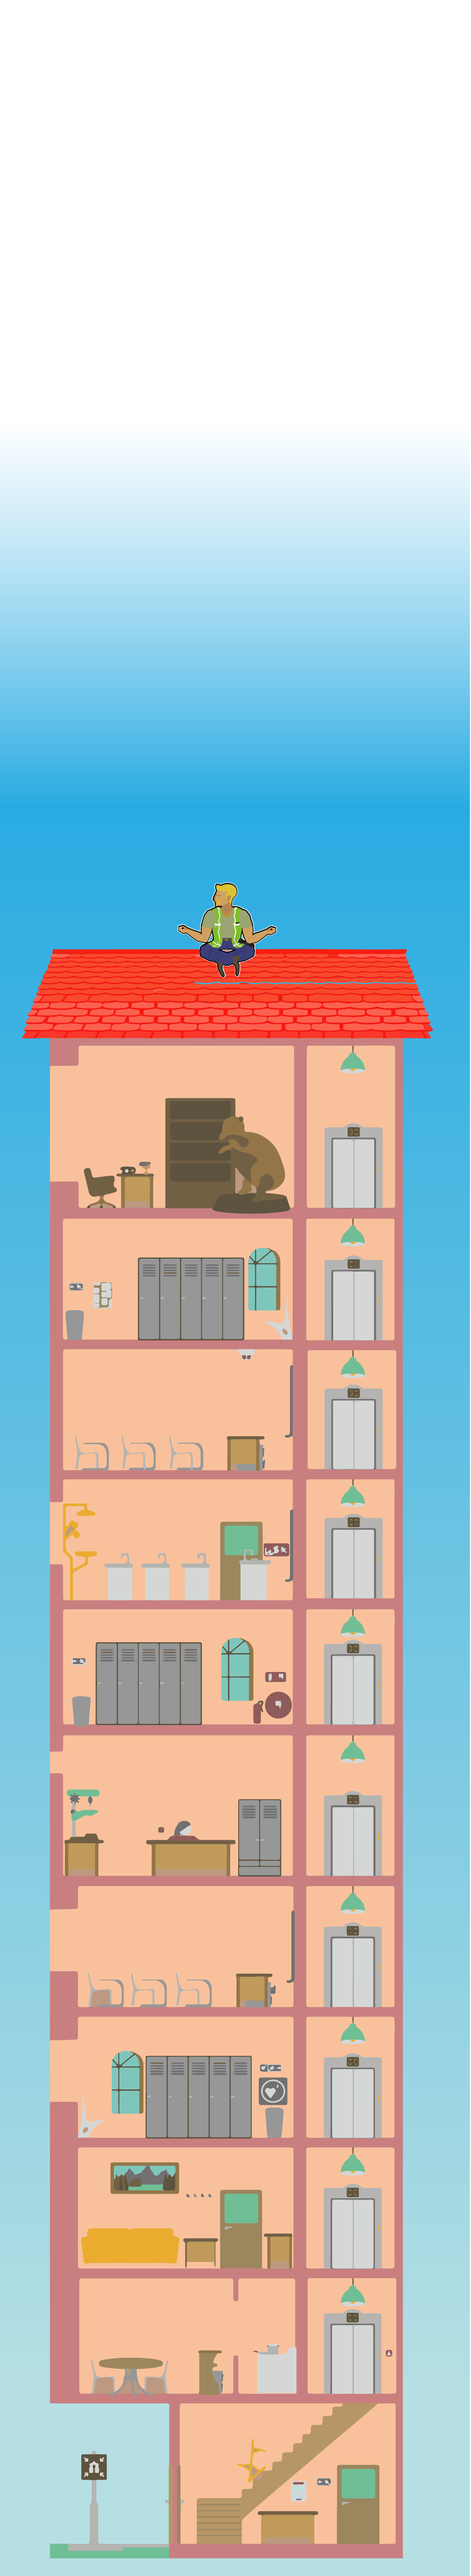
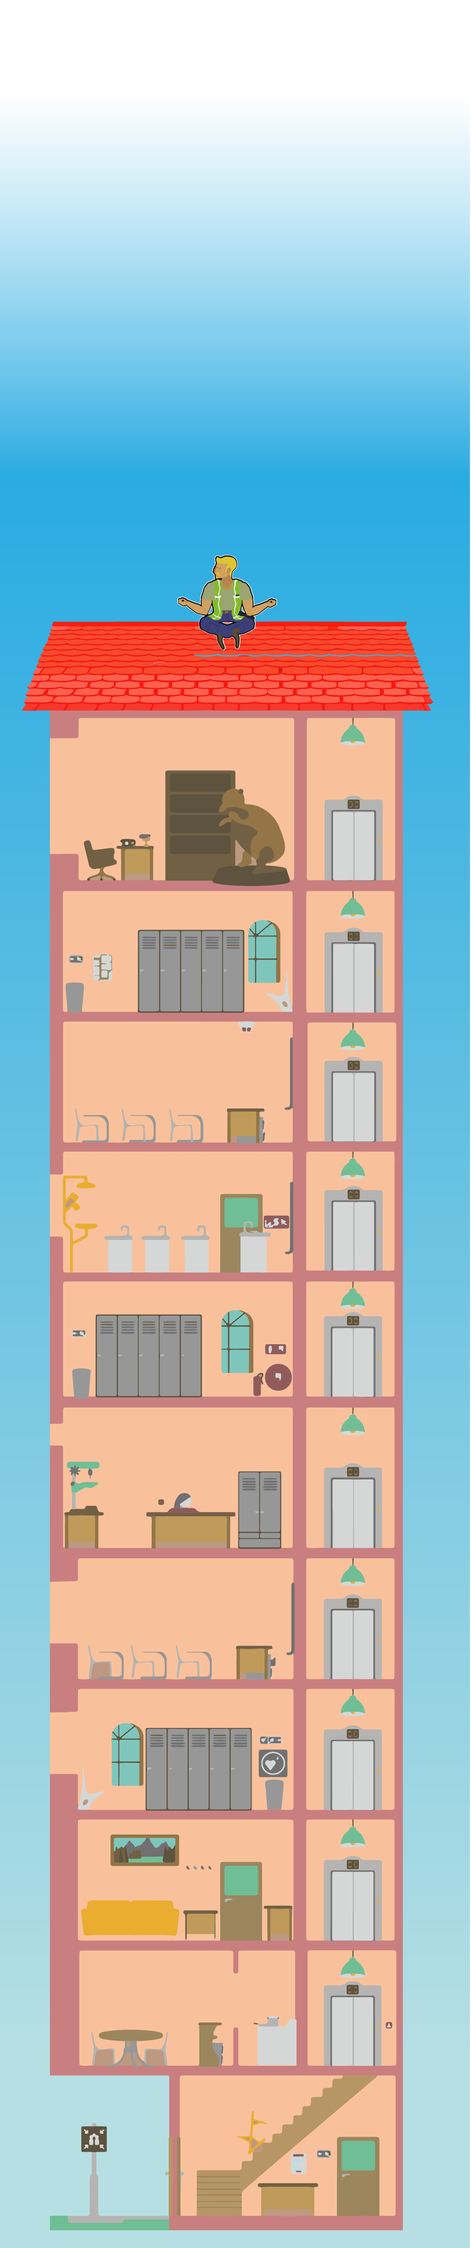
Achtergrond geplaats en buttons met scroll animatie geplaatst.

diff --git a/index.php b/index.php
@@ -50,10 +50,38 @@
       z-index: 1;
   }
 
+
+
+  .vierkantlogo.fixed{
+      position: fixed;
+      top: 0;
+      margin-top: 30px;
+      height: 100px;
+
+  }
+
+
   /* Voeg deze CSS toe om de Quizbutton op zijn plaats te houden en vervolgens te fixeren bij het scrollen */
   .Quizbutton.fixed {
       position: fixed;
       top: 0;
+      right: 250px;
+      margin-top: 40px;
+      width: 50px;
+      font-size: 70px;
+      padding-left: 82px;
+      padding-right: 218px;
+  }
+
+  .makersbutton.fixed{
+      position: fixed;
+      top: 0;
+      left: 32px;
+      margin-top: 40px;
+      width: 50px;
+      font-size: 70px;
+      padding-right: 257px;
+      padding-left: 43px;
   }
 
 
@@ -89,7 +117,7 @@
       background-size: contain;
       background-repeat: no-repeat;
       height: calc(126vw / (2140 / 9291)); /* Hoogte wordt berekend op basis van de aspect ratio van de afbeelding */
-      margin: 0;
+      background-position: center top -44px;
   }
 
   .buttons{
@@ -153,18 +181,31 @@
     <img src="images/Gif1.gif" alt="button12" class="button12 buttons" id="button12">
 </div>
 <script>
-$(document).ready(function() {
-var quizButton = $(".Quizbutton");
-var quizOffset = quizButton.offset().top;
+    $(document).ready(function () {
+        // Vierkantlogo
+        var logo = $(".vierkantlogo");
+        var logoOffset = logo.offset().top;
 
-$(window).scroll(function() {
-if ($(window).scrollTop() > quizOffset) {
-quizButton.addClass("fixed");
-} else {
-quizButton.removeClass("fixed");
-}
-});
-});
+        $(window).scroll(function () {
+            logo.toggleClass("fixed", $(window).scrollTop() > logoOffset);
+        });
+
+        // Makersbutton
+        var makersButton = $(".makersbutton");
+        var makersOffset = makersButton.offset().top;
+
+        $(window).scroll(function () {
+            makersButton.toggleClass("fixed", $(window).scrollTop() > makersOffset);
+        });
+
+        // Quizbutton
+        var quizButton = $(".Quizbutton");
+        var quizOffset = quizButton.offset().top;
+
+        $(window).scroll(function () {
+            quizButton.toggleClass("fixed", $(window).scrollTop() > quizOffset);
+        });
+    });
 </script>
 </body>
 </html>
